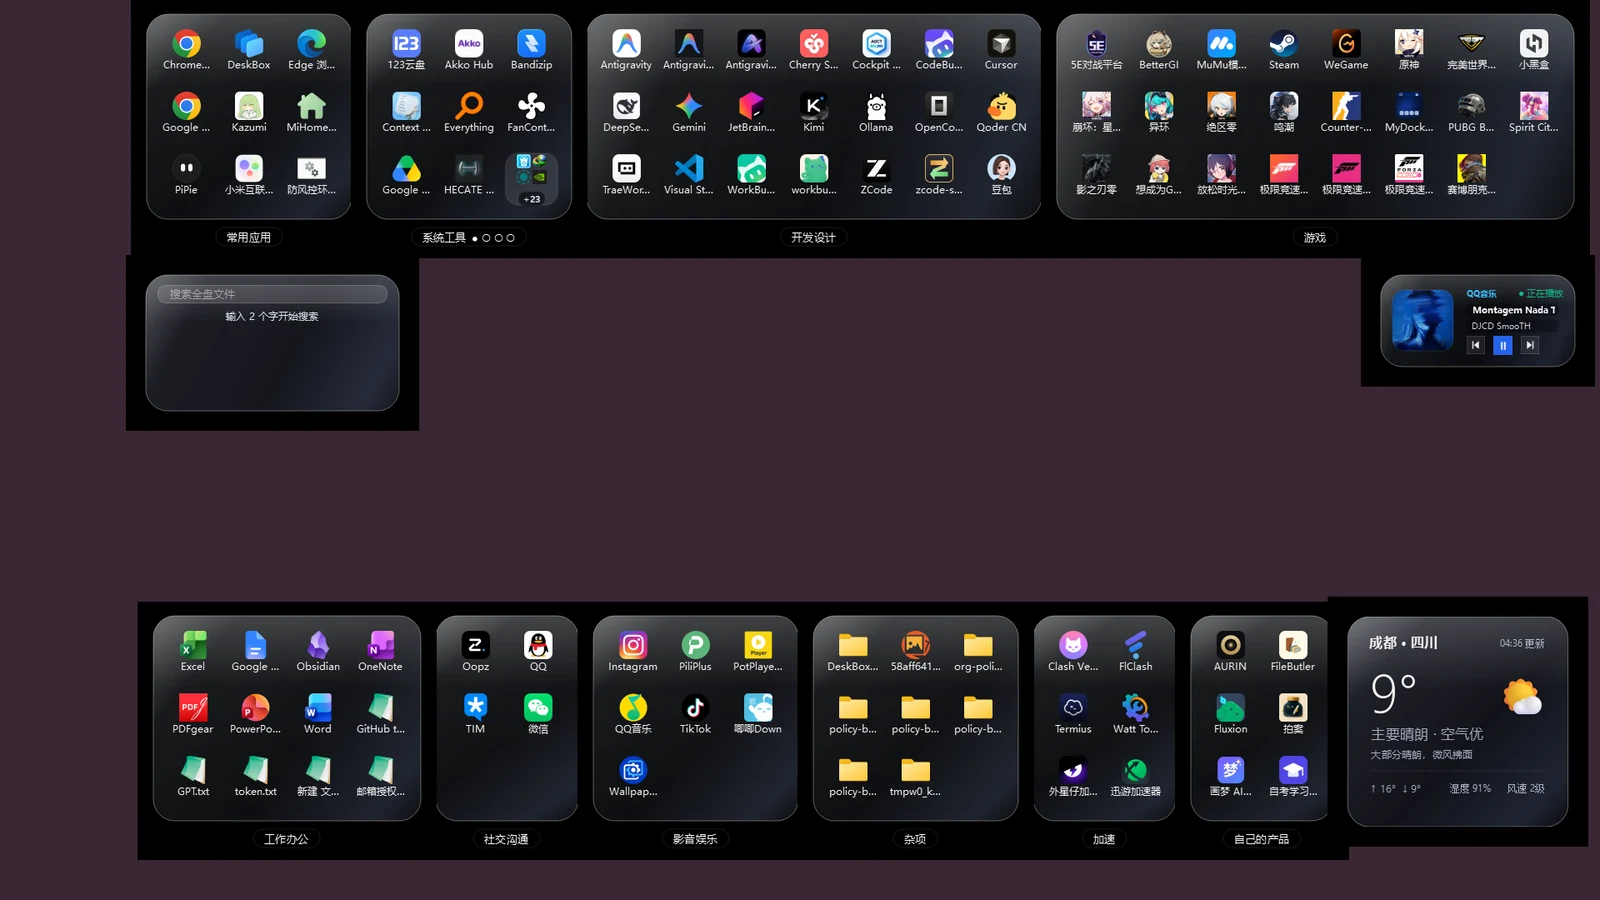
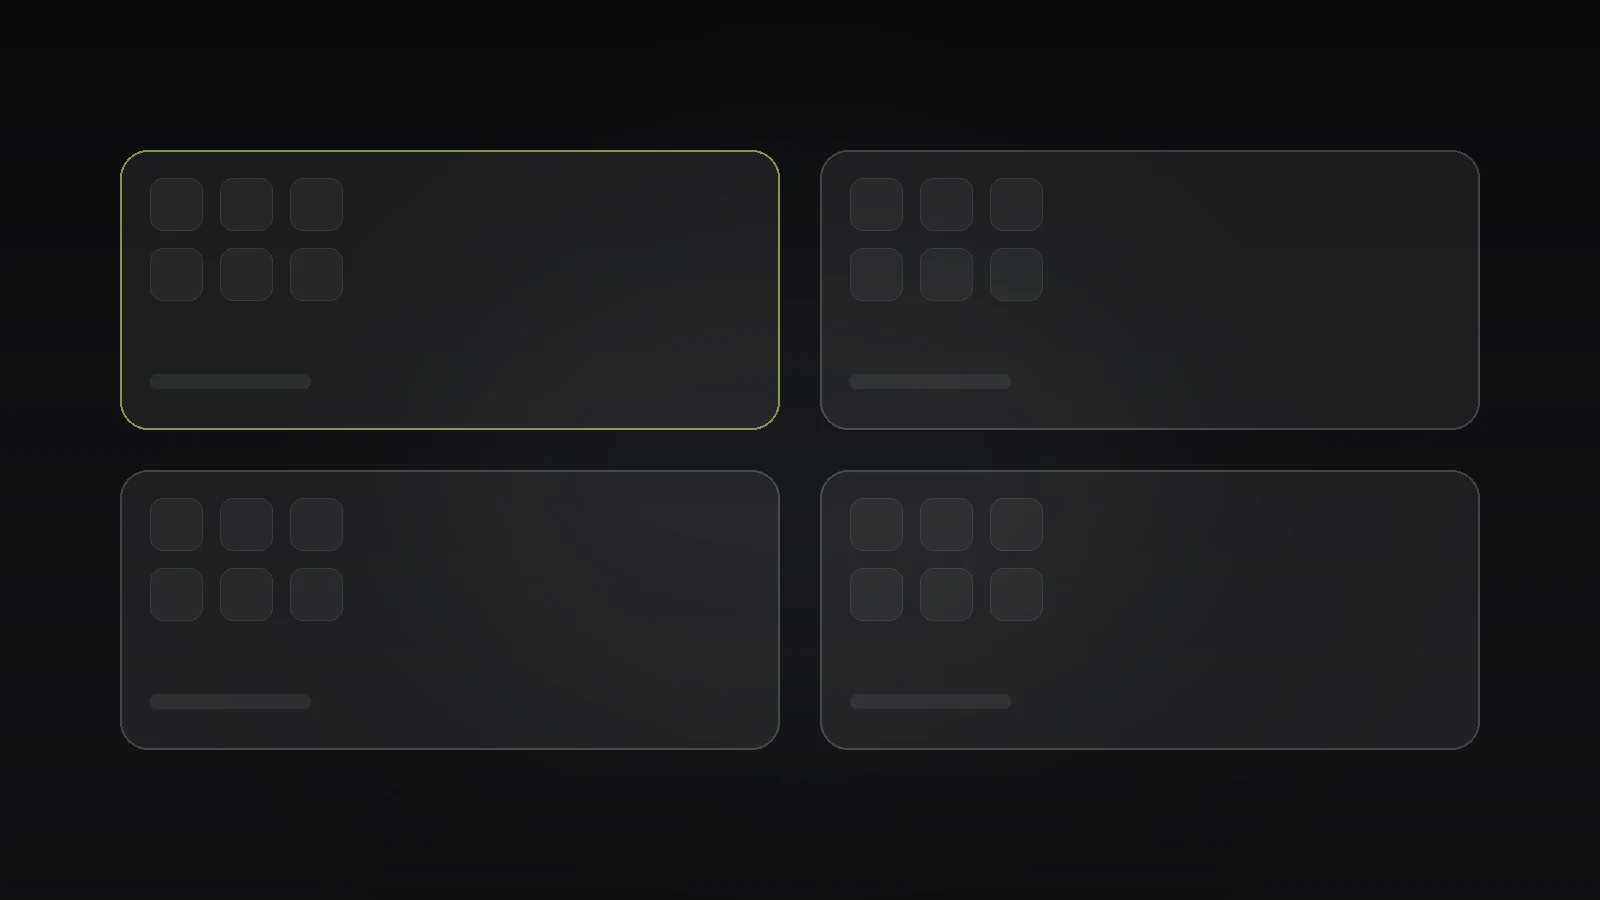
详情封面换成抽象卡片矩阵，移除含隐私的真实桌面截图

diff --git a/js/projects.js b/js/projects.js
@@ -481,8 +481,8 @@ Fluxion 是集 Windows 底层系统调优、全平台游戏库管理与跨代 DL
     },
     requires: "Windows 10 / 11 x64（安装版与便携版无需 Python）",
     details: `
-<img src="assets/images/cover-stacky.webp" alt="Stacky 桌面卡片矩阵实机" style="width:100%;border-radius:10px;border:1px solid rgba(0,0,0,.08);display:block;">
-<p style="font-size:12px;color:#86868b;margin-top:6px;">Stacky 实机桌面：分类卡片、搜索抽屉、天气与媒体小组件；60 秒介绍视频在项目卡片上。</p>
+<img src="assets/images/cover-stacky.webp" alt="Stacky 卡片矩阵示意" style="width:100%;border-radius:10px;border:1px solid rgba(0,0,0,.08);display:block;">
+<p style="font-size:12px;color:#86868b;margin-top:6px;">卡片矩阵示意：分类卡、网格吸附与小组件；60 秒介绍视频在项目卡片上。</p>
 
 ### 💡 这是什么
 Windows 10 / 11 上的桌面卡片矩阵与启动台。把常用应用、文件夹和小组件收进桌面上的超椭圆卡片，卡片按网格吸附排列；每个分类直接映射硬盘上的真实目录，文件始终可以用资源管理器访问。界面用 PySide6 / Qt 写成，配置、图标缓存与分类目录都留在本机。

diff --git a/sw.js b/sw.js
@@ -11,7 +11,7 @@
  * 在下一次打开自动对齐，**常规发布不需要再手动 +1 版本号**；只有改 CORE 列表或缓存
  * 结构时才 bump（install 会全量重拉 CORE，约 1MB 后台流量，按需使用）。
  */
-const CACHE = 'sevenjohn-v263';   // 2026-11-13 撤掉首字母检索宣传；修复弹窗数据缓存导致点不开
+const CACHE = 'sevenjohn-v264';   // 2026-11-13 详情封面换成抽象卡片矩阵，移除含隐私的真实桌面截图
 const CORE = [
   './',
   'index.html',
